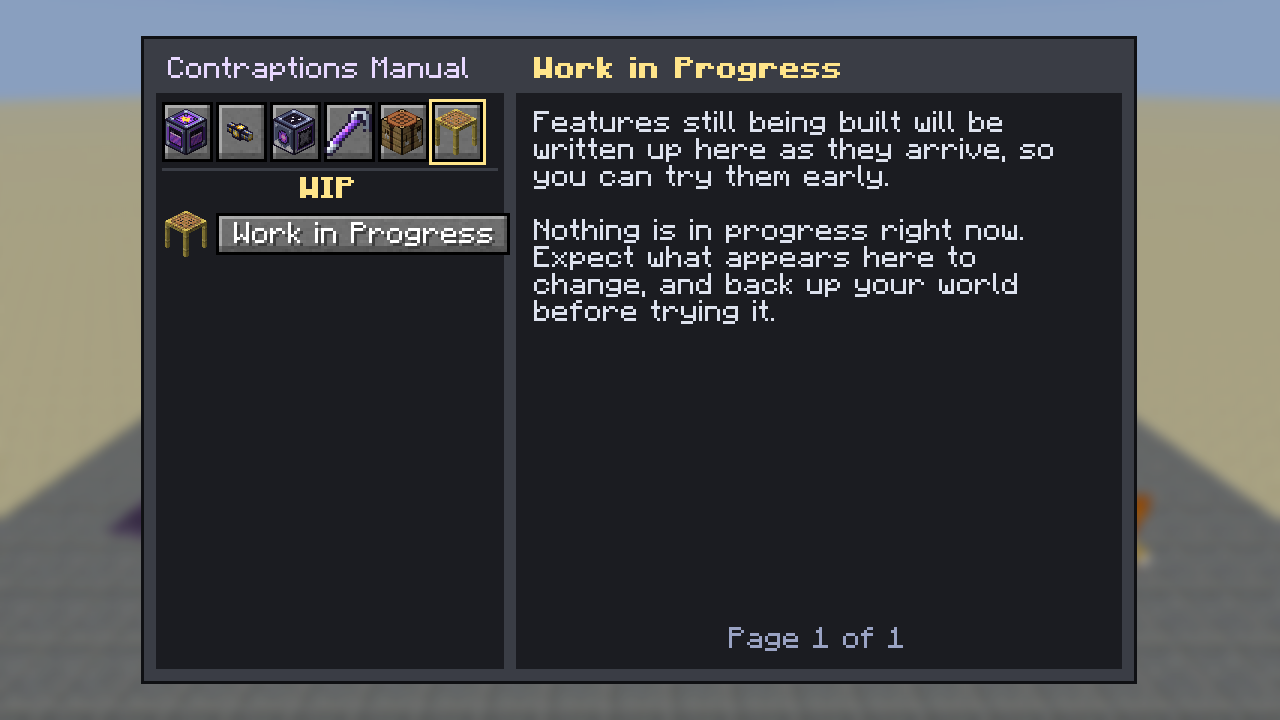
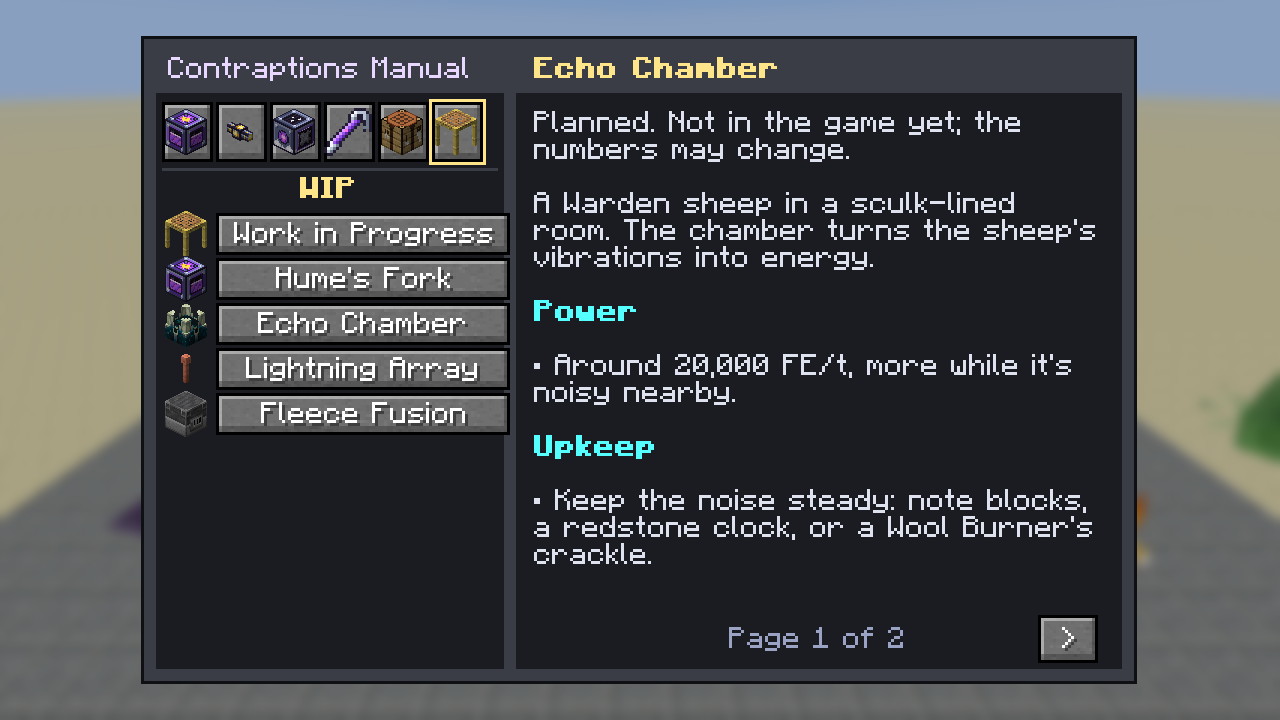
List four planned late-game generators in the manual's WIP tab
Hume's Fork, the Echo Chamber, the Lightning Array and Fleece Fusion, each
with its planned power and upkeep, marked as not in the game yet.

Claude-Session: https://claude.ai/code/session_012iurxobutw9xMP3SqHHLFE

diff --git a/src/main/java/com/jax3/barelyfunctionalcontraptions/sheep/client/DevScreenshotHarness.java b/src/main/java/com/jax3/barelyfunctionalcontraptions/sheep/client/DevScreenshotHarness.java
@@ -1699,7 +1699,7 @@ public final class DevScreenshotHarness {
             case 336 -> shot(mc, "99_guide_recipes_altar");
             case 338 -> { if (mc.gui.screen() instanceof GuideScreen guide) guide.openChapter("Wool Bales"); }
             case 348 -> shot(mc, "99_guide_recipes_bales");
-            case 350 -> { if (mc.gui.screen() instanceof GuideScreen guide) guide.openTab(GuideBook.Tab.WIP); }
+            case 350 -> { if (mc.gui.screen() instanceof GuideScreen guide) { guide.openTab(GuideBook.Tab.WIP); guide.openChapter("Echo Chamber"); } }
             case 360 -> shot(mc, "99_guide_wip");
             case 362 -> { if (mc.gui.screen() instanceof GuideScreen guide) guide.openChapter("Wool Burner"); }
             case 372 -> shot(mc, "83_guide_power_tab");

diff --git a/docs/REFERENCE.md b/docs/REFERENCE.md
@@ -67,7 +67,7 @@ Craft a **Contraptions Manual** (a book and a Functional Machine Block) and righ
 - **Production:** infusing sheep, the themed sheep, the Infusion Altar, breeding stats, the Mechanical Separator and Automatic Shears, and the Fluid Reservoir.
 - **Utility:** getting started, the wrench and its links, and data packs and commands.
 - **Recipes:** built from the game itself, so it matches any data-pack or modpack changes. *Machines* and *Parts and Tools* show every crafting recipe of the mod as a 3x3 grid; *Infusion* shows what each sheep is fed and the wool it grows; *Infusion Altar* shows the catalysts round the feeding item, with the tier and power; *Mechanical Separator* shows what every wool separates into, with the power and time; *Wool Bales* shows packing, unpacking and what every bale separates into. Ingredients that take any of several items cycle through them, and hovering over an item shows its tooltip.
-- **WIP:** work-in-progress features, written up here as they arrive. It's empty for now apart from a short note. A resource pack's guide file puts a chapter here with `"tab": "wip"`.
+- **WIP:** work-in-progress features, written up here as they arrive. For now it holds the planned late-game generators that need upkeep: *Hume's Fork*, *Echo Chamber* (a Warden sheep in a sculk room), *Lightning Array* and *Fleece Fusion*. None of them is in the game yet. A resource pack's guide file puts a chapter here with `"tab": "wip"`.
 
 Hover over a tab to see its name. A resource pack's guide file can still use the tab's old name, `"productive"`; it now means Production.
 
